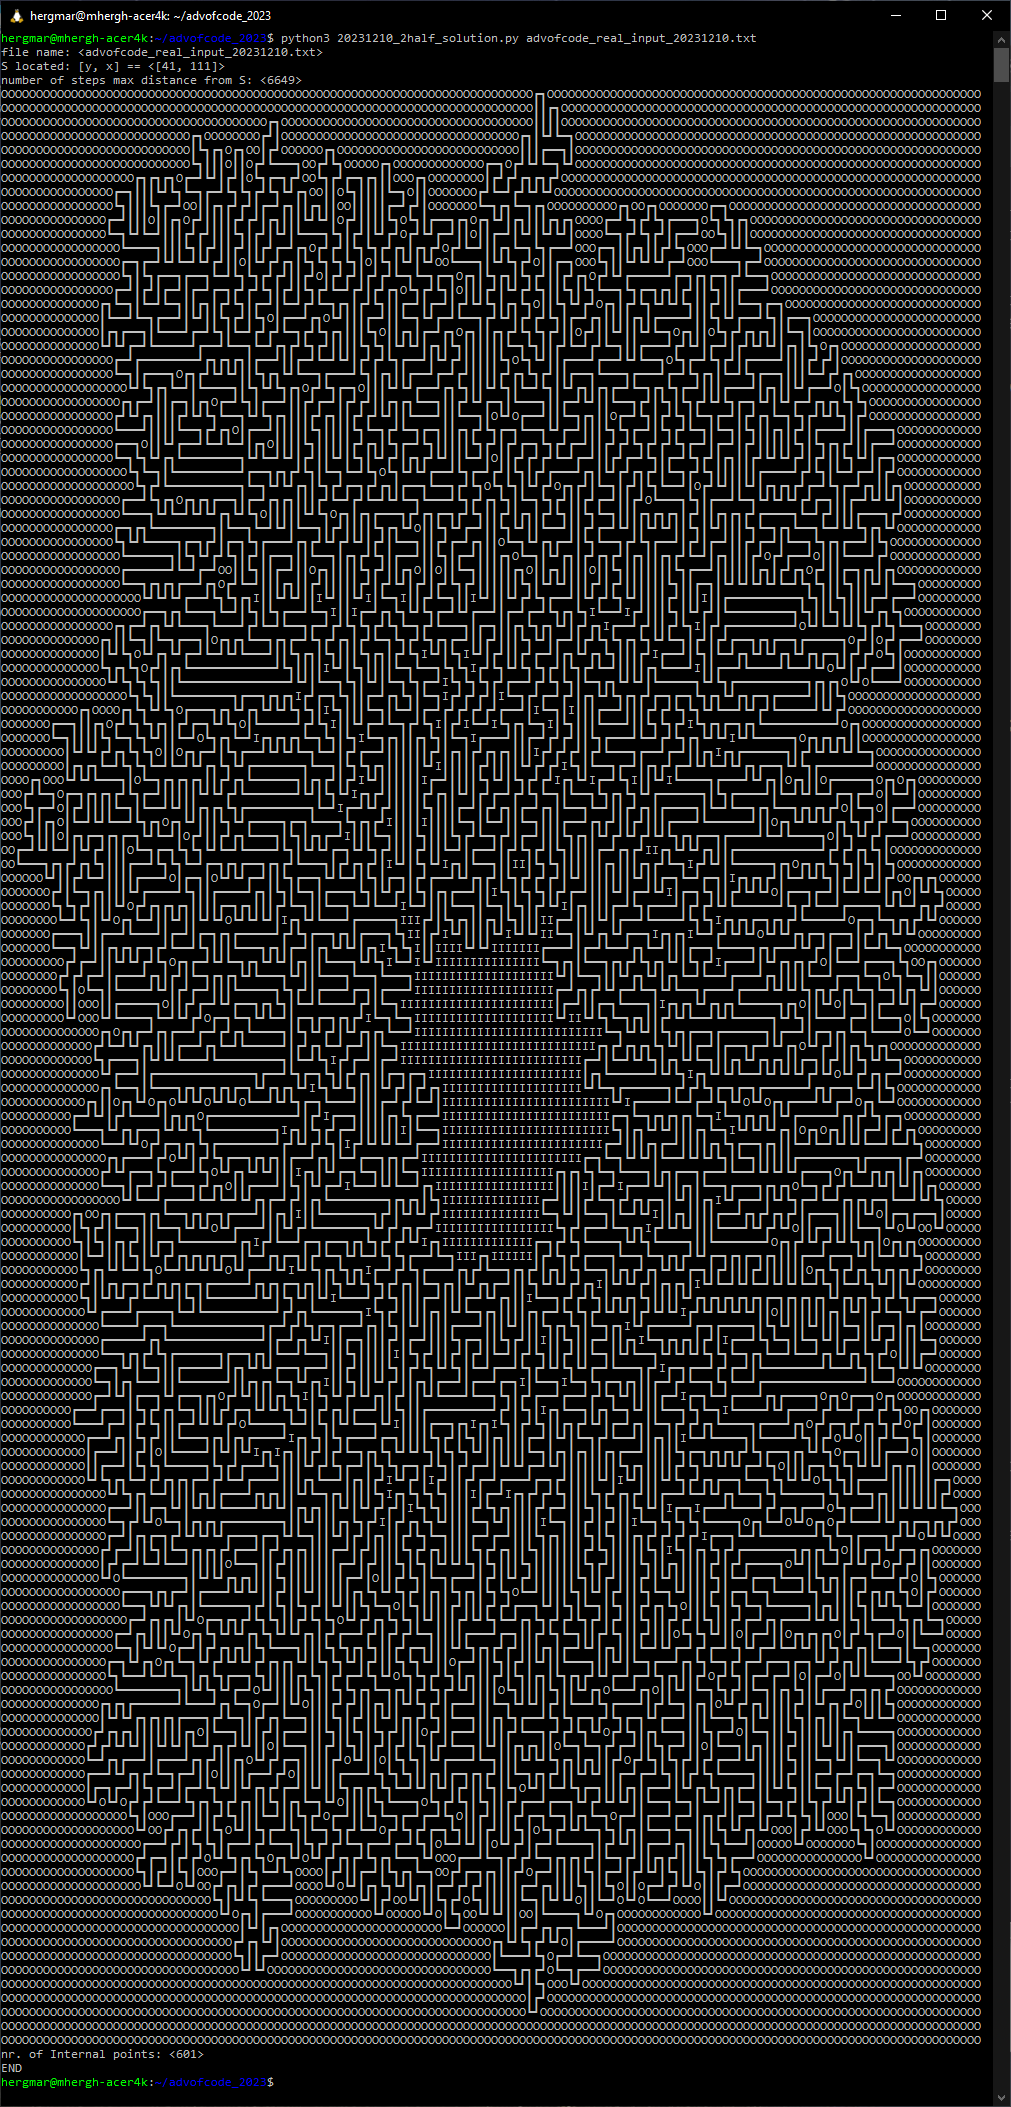
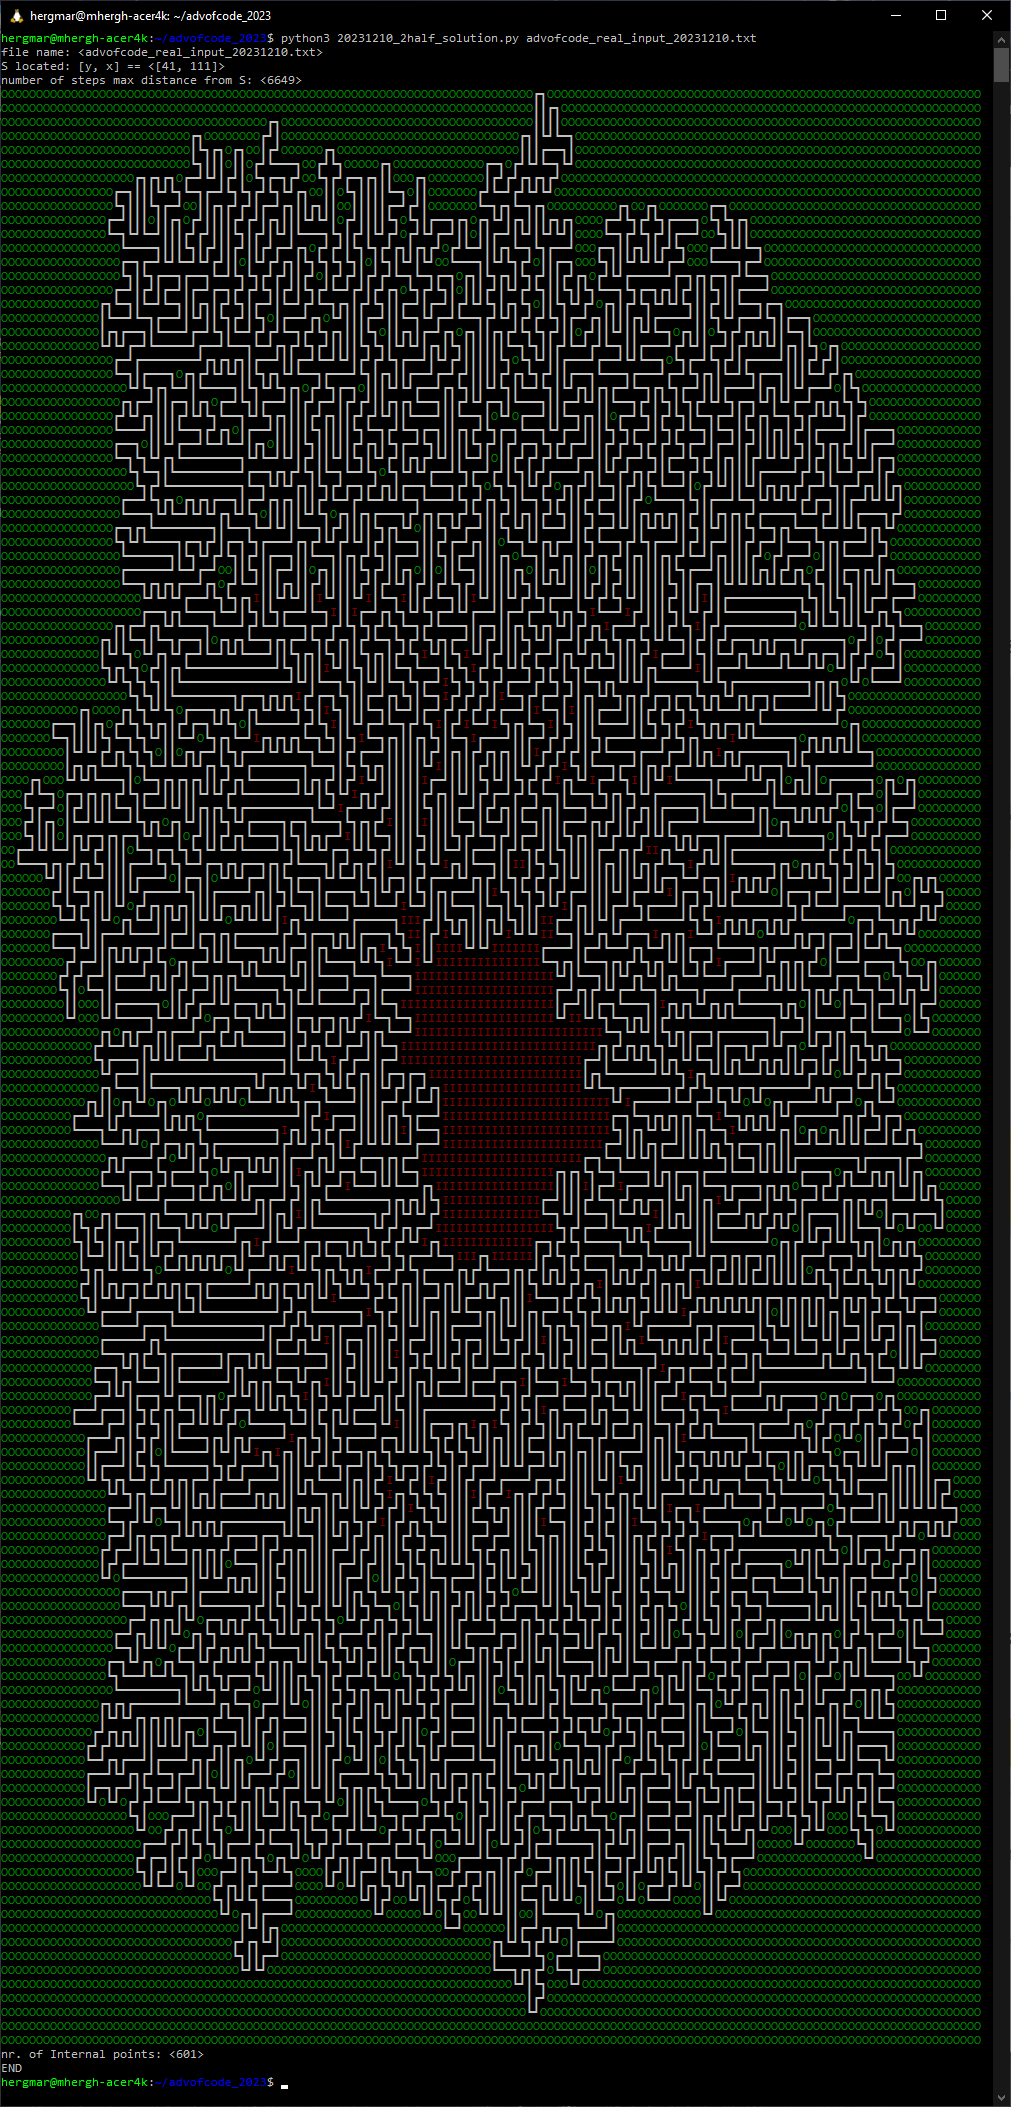
shown in colors ...

Changed region(s): [[0.0, 0.0308, 0.9812, 0.9872], [0.3986, 0.4319, 0.6133, 0.617]]

diff --git a/20231210_2half_solution.py b/20231210_2half_solution.py
@@ -1,0 +1,287 @@
+import copy
+import os
+import sys
+import re
+
+# <filename> == sys.argv[1]
+
+# SUB
+map = []
+max_x = -1
+max_y = -1
+S = [-1, -1] # start position
+upper_length = 40000 # prevent infinite loop; a length >= with this woould indicate a bug
+map2 = [] # contains the map filled with only the cicle and 'O' for outside and 'I' for inside
+map2_nr_I = 0 # nr. of internal points
+UNINITIALISED = '.'
+COLOR_RESET = '\033[m'
+
+def initMap2():
+    '''initializes map2 based on map
+    '''
+    global map2
+    map2 = [[UNINITIALISED for _ in range(len(map[0]))] for _ in range(len(map))]
+
+def setCharAtPositionMap2(p, c):
+    global map2
+    map2[p[0]][p[1]] = c
+
+def invert_state(state):
+    ''' 'O' == <outside>; 'I' == <inside> (related to the cycle)
+    '''
+    match state:
+        case 'O':
+            return 'I'
+        case 'I':
+            return 'O'
+        case _:
+            return None
+
+def get_horizontal_token_at_pos(p):
+    ''' acts on map2; assumes any row in map2 is made solely out of VALID tokens
+        however, the real scope of this function is to gather the border-tokens
+        p[y, x]
+        - returns the horizontal token and the position of token's last character
+            - valid tokens are: {UNITIALISED, 'LJ' == '┗┛', 'F7' == '┏┓', 'L7' == '┗┓', 'FJ' == '┏┛', '|', <whatever-else-char>}
+            - if no token can be identified (for instance after end of row), returns None
+            - return sample: ['L7', [7, 5]]
+    '''
+    if p[0] >= len(map2) or p[1] >= len(map2[0]): # p out of range for map2
+        return [None, None]
+    if map2[p[0]][p[1]] not in ['L', 'F']: # 1 char token
+        return [map2[p[0]][p[1]], p]
+    else: # multichar token
+        p_last = copy.deepcopy(p)
+        p_last[1] += 1
+        while(map2[p_last[0]][p_last[1]] in ['-']):
+            p_last[1] += 1
+        return map2[p[0]][p[1]] + map2[p_last[0]][p_last[1]], p_last
+
+def set_states_on_row(idx_row):
+    ''' acts on map2
+        - parses horizontally the map2 row given by the index and for the UNINITIALISED fields sets accordingly the state to <outside> or <inside>
+    '''
+    global map2_nr_I
+    state = 'O'
+    idx_column = 0
+    p = [idx_row, idx_column]
+    while(1):
+        (token, p) = get_horizontal_token_at_pos(p)
+        if token:
+            match token:
+                case '.':
+                    map2[p[0]][p[1]] = state
+                    if state == 'I':
+                        map2_nr_I += 1
+                case 'L7' | 'FJ' | '|':
+                    state = invert_state(state)
+            p[1] += 1
+        else:
+            break
+
+def set_states_on_map2():
+    for i in range(len(map2)):
+        set_states_on_row(i)
+
+def getUTF8Char(c):
+    match c:
+        case 'F':
+            return chr(0x250F) # HEAVY DOWN AND RIGHT
+        case 'J':
+            return chr(0x251B) # HEAVY UP AND LEFT
+        case 'L':
+            return chr(0x2517) # HEAVY UP AND RIGHT
+        case '7':
+            return chr(0x2513) # HEAVY DOWN AND LEFT
+        case '|':
+            return chr(0x2503) # HEAVY VERTICAL
+        case '-':
+            return chr(0x2501) # HEAVY HORIZONTAL
+        case _:
+            return c
+
+def showRAWMap2():
+    for row in map2:
+        print(''.join(row))
+
+def get_color_code(char):
+    match char:
+        case 'O':
+            return '\033[32m' # green
+        case 'I':
+            return '\033[31m' # red
+        case _:
+            return '' # default
+
+def showMap2():
+    map3 = copy.deepcopy(map2)
+    for i in range(len(map2)):
+        for j in range(len(map2[0])):
+            map3[i][j] = getUTF8Char(map2[i][j])
+    for i in range(len(map2)):
+        for j in range(len(map2[0])):
+            char = map3[i][j]
+            print(get_color_code(char) + char + COLOR_RESET, end='')
+        print()
+
+
+def getNextPosition(p, action, p_prev):
+    '''p = [y, x]; returns the next position if <action> will be applied; p_prev is the previous position
+        - | is a vertical pipe connecting north and south.
+        - is a horizontal pipe connecting east and west.
+        - L is a 90-degree bend connecting north and east.
+        - J is a 90-degree bend connecting north and west.
+        - 7 is a 90-degree bend connecting south and west.
+        - F is a 90-degree bend connecting south and east.
+        - . is ground; there is no pipe in this tile.
+        - S is the starting position of the animal; there is a pipe on this tile, but your sketch doesn't show what shape the pipe has.
+    '''
+    p_next = copy.deepcopy(p)
+    match action:
+        case '|': # N <-> S
+            if p[1] != p_prev[1]:
+                return None # x not same; bug
+            if p[0] > p_prev[0]:
+                p_next[0] += 1
+            else:
+                p_next[0] -= 1
+        case '-': # E <-> W
+            if p[0] != p_prev[0]:
+                return None # y not same; bug
+            if p[1] > p_prev[1]:
+                p_next[1] += 1
+            else:
+                p_next[1] -= 1
+        case 'L': # N <-> E
+            if p[1] < p_prev[1] and p[0] == p_prev[0]:
+                p_next[0] -= 1 # E -> N
+            elif p[0] > p_prev[0] and p[1] == p_prev[1]:
+                p_next[1] += 1 # N -> E
+            else:
+                return None
+        case 'J': # N <-> W
+            if p[1] > p_prev[1] and p[0] == p_prev[0]:
+                p_next[0] -= 1 # W -> N
+            elif p[0] > p_prev[0] and p[1] == p_prev[1]:
+                p_next[1] -= 1 # N -> W
+            else:
+                return None
+        case '7': # S <-> W
+            if p[1] > p_prev[1] and p[0] == p_prev[0]:
+                p_next[0] += 1 # W -> S
+            elif p[0] < p_prev[0] and p[1] == p_prev[1]:
+                p_next[1] -= 1 # S -> W
+            else:
+                return None
+        case 'F': # E <-> S
+            if p[1] < p_prev[1]:
+                p_next[0] += 1 # E -> S
+            elif p[0] < p_prev[0]:
+                p_next[1] += 1 # S -> E
+            else:
+                return None
+        case _:
+            return None
+    if x > max_x or y > max_y:
+        print('next outside boundaries; not possible to follow here')
+        return None
+    return p_next
+
+def getCharAtPosition(position):
+    '''acts on the global map[]
+        - position == [y, x]
+    '''
+    if not position or position[0] < 0 or position[1] < 0:
+        return None
+    return map[position[0]][position[1]]
+
+def getPrevPosAndActionOfStart(Start):
+    ''' Start is just a clobber of one of accepted actions; I have to identify it based on adjacent pipes
+        - however, I will assume that S is not on the border (is theoretically connectable in all 4 directions: N, S, E, W)
+        - nb_<N, S , E, W> neighbor in the respective direction
+        - as per spec. there is exactly 1 pair connectable in the neighborhood
+
+        returns:
+        - [[previous position], action]
+    '''
+    [pos_nb_N, pos_nb_S, pos_nb_E, pos_nb_W] = [copy.deepcopy(Start), copy.deepcopy(Start), copy.deepcopy(Start), copy.deepcopy(Start)]
+    pos_nb_N[0] -= 1
+    pos_nb_S[0] += 1
+    pos_nb_W[1] -= 1
+    pos_nb_E[1] += 1
+    [nb_N, nb_S, nb_W, nb_E] = [getCharAtPosition(position) for position in [pos_nb_N, pos_nb_S, pos_nb_W, pos_nb_E]]
+    if nb_N in ['7', 'F', '|'] and nb_S in ['J', 'L', '|']:
+        return pos_nb_S, '|'
+    elif nb_N in ['7', 'F', '|'] and nb_E in ['J', '7', '-']:
+        return pos_nb_E, 'L'
+    elif nb_N in ['7', 'F', '|'] and nb_W in ['L', 'F', '-']:
+        return pos_nb_W, 'J'
+    elif nb_S in ['J', 'L', '|'] and nb_E in ['J', '7', '-']:
+        return pos_nb_E, 'F'
+    elif nb_S in ['J', 'L', '|'] and nb_W in ['L', 'F', '-']:
+        return pos_nb_W, '7'
+    elif nb_E in ['J', '7', '-'] and nb_W in ['L', 'F', '-']:
+        return pos_nb_W, '-'
+
+def parseCycle():
+    ''' parses the cycle and:
+        - copies in the map2 the correspoding cycle path; the S will be set to the real action
+        returns the cyle length
+    '''
+    p = copy.deepcopy(S) # current position; initialised to Start
+    prev_p = None # previous position
+    length = 0 # cycle length
+    [prev_p, action] = getPrevPosAndActionOfStart(S)
+    while 1:
+        setCharAtPositionMap2(p, action)
+        p_next = getNextPosition(p, action, prev_p)
+        prev_p = p
+        p = p_next
+        action = getCharAtPosition(p)
+        length += 1
+        if action in ['S']:
+            return length
+        elif length > upper_length:
+            print(f'length over <{upper_length}>; return None')
+            return None
+
+# MAIN
+if __name__ == '__main__':
+    print(f'file name: <{sys.argv[1]}>')
+    line_length = 0
+    nr_steps = 0
+    pattern = ''
+    [y, x] = [0, 0] # coordinates: x - horiz. (left -> right) from 0 .. max, y vertical from 0 .. max (top -> bottom); [0, 0] == upper left
+    idx_line = 0
+    with open(sys.argv[1], 'r') as file:
+        for line in file:
+            line = line.strip()
+            if not line_length:
+                line_length = len(line)
+                pattern = r'[-|LJ7F.S]{' + str(line_length) + '}$'
+            if re.match(pattern, line):
+                char_list = list(line)
+                map.append(char_list)
+                if S[0] == -1: # S not yet detected
+                    match = re.search(r'S', line)
+                    if match:
+                        S = [idx_line, match.start()]
+                        print(f'S located: [y, x] == <{S}>')
+                idx_line += 1
+            elif re.match(r'^\s*$', line):
+                pass
+            else:
+                # Print the line if it doesn't contain an image URL
+                print(f'unrecognized line provided: <{line}>')
+    max_y = idx_line - 1
+    max_x = line_length -1
+    upper_length = (max_x + 1) * (max_y + 1)
+    initMap2()
+    nr_steps = int(parseCycle() / 2)
+    print(f'number of steps max distance from S: <{nr_steps}>')
+    set_states_on_map2()
+    #showRAWMap2()
+    showMap2()
+    print(f'nr. of Internal points: <{map2_nr_I}>')
+    print(f'END')
+    
